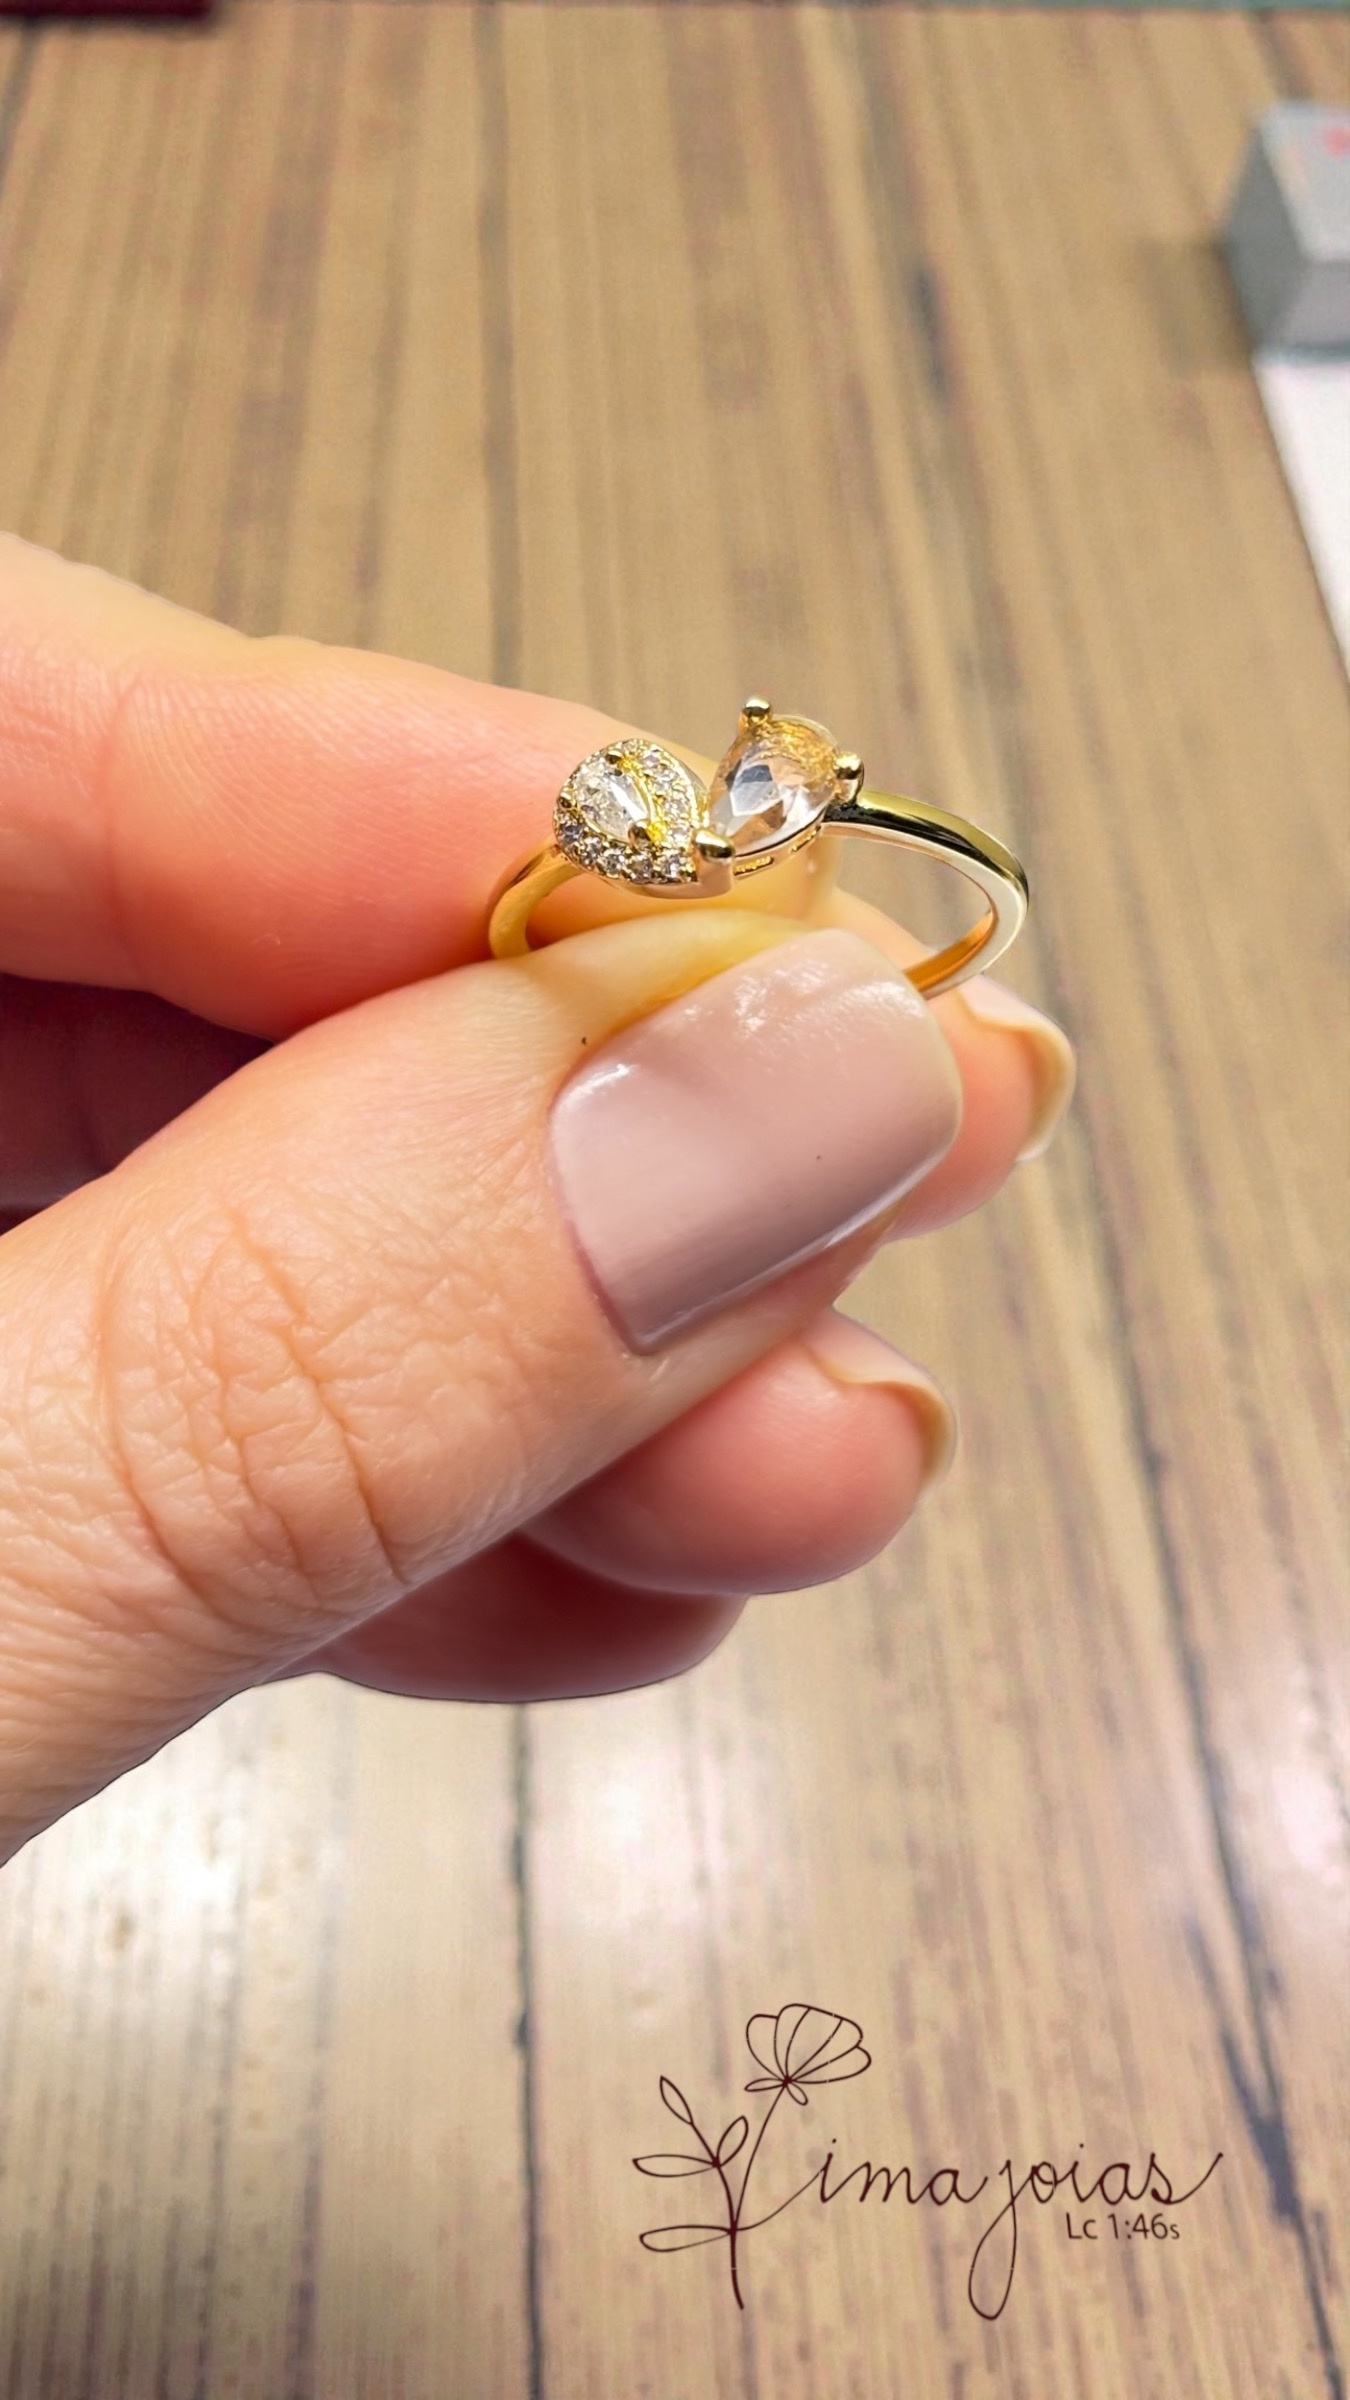
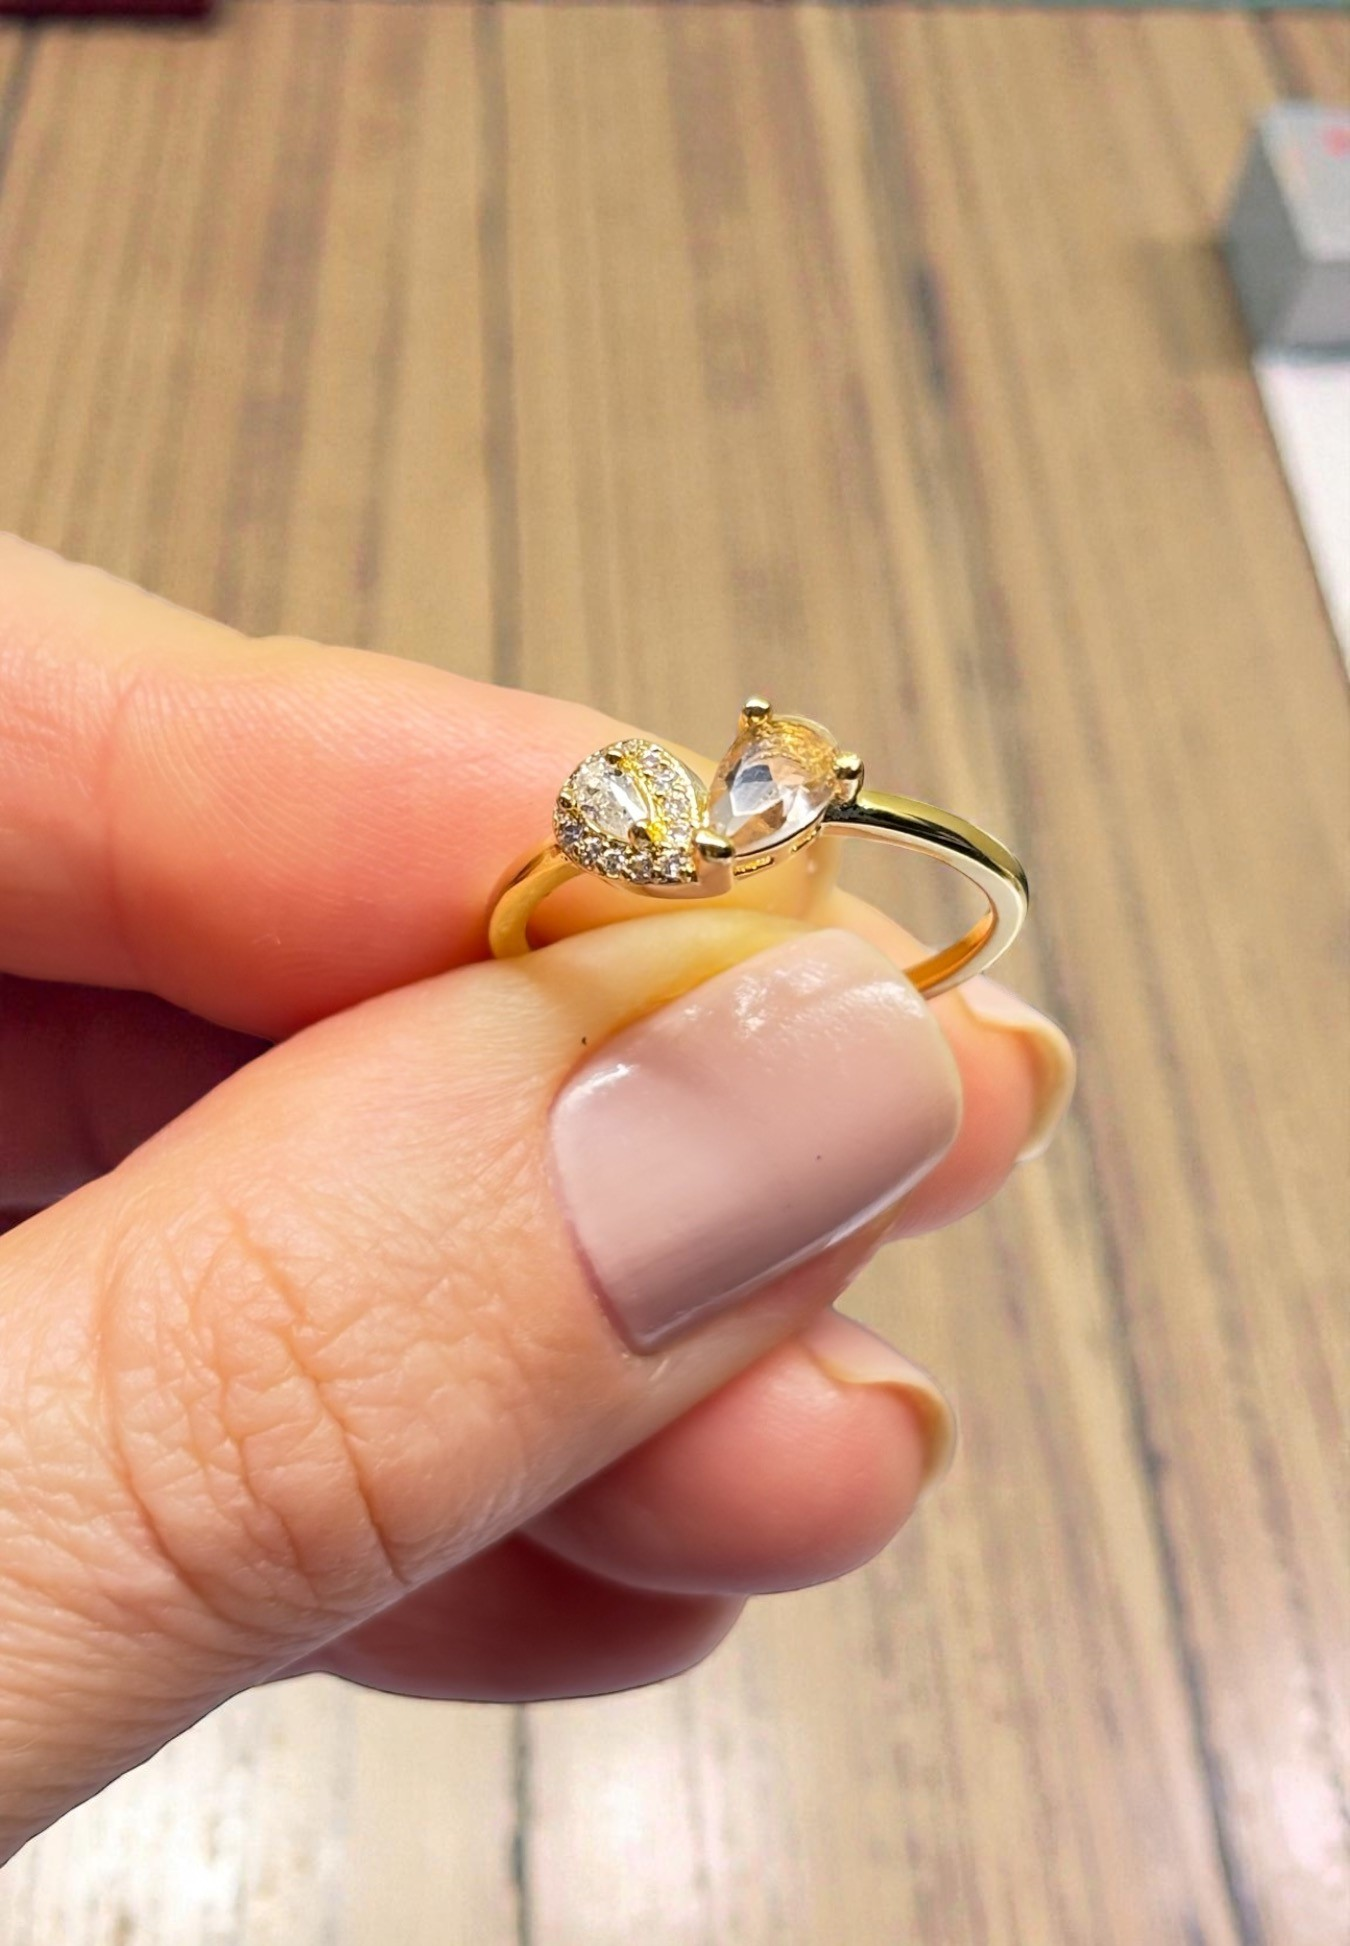
alteração

diff --git a/index.html b/index.html
@@ -117,7 +117,7 @@
                     </div>
 
                     <div class="collection-card">
-                        <img src="images/imagemChoker.jpggit" alt="Coleção de chokers">
+                        <img src="images/imagemChoker.jpg" alt="Coleção de chokers">
                         <h3>Chokers</h3>
 
                     </div>
@@ -140,7 +140,7 @@
             <div class="container brand-content">
 
                 <div class="brand-image">
-                    <img src="images/bath.jpg" alt="Detalhes das peças Ima Joias">
+                    <img src="images/imagemBanho.jpeg" alt="Detalhes das peças Ima Joias">
                 </div>
 
                 <div class="brand-text">

diff --git a/css/style.css b/css/style.css
@@ -81,23 +81,26 @@ body {
 .hero-content {
     display: flex;
     align-items: center;
-    gap: 50px;
+    justify-content: center;
+    gap: 40px;
 }
 
-.hero-image,
-.hero-text {
-    flex: 1;
-    min-width: 0;
+.hero-image {
+    flex: 0 1 45%;
 }
 
 .hero-image img {
     width: 100%;
+    max-width: 480px;
+    height: 500px;
+    object-fit: cover;
+    object-position: center;
     display: block;
     border-radius: 8px;
 }
 
 .hero-text {
-    padding: 15px;
+    flex: 0 1 50%;
 }
 
 .hero-subtitle {
